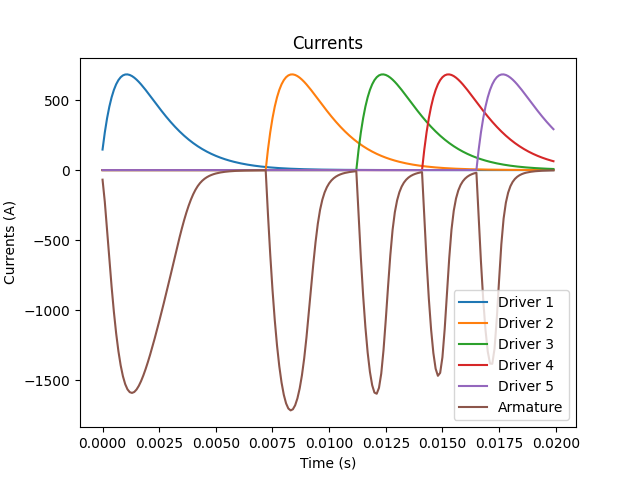
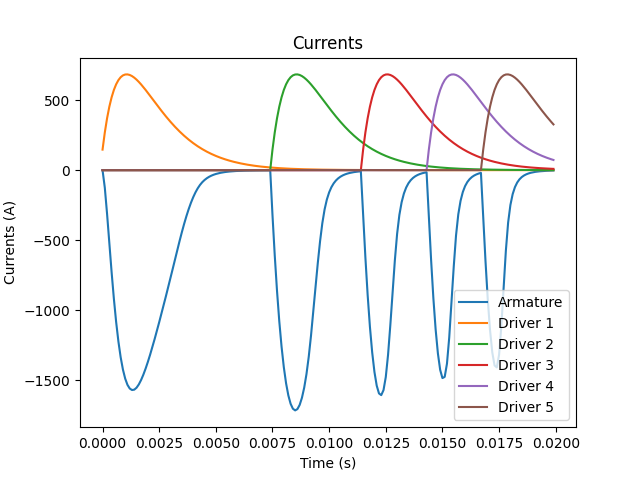
Efficiency calc fixes

diff --git a/Simulation/main.py b/Simulation/main.py
@@ -52,8 +52,9 @@ for step in np.arange(0, runtime, timestep):
     armature_currents.append(output[0].coil.current)
 
     armature_energy.append(armature.energy)
-    driver_energy.append(driver1.energy + driver2.energy + driver3.energy + driver4.energy + driver5.energy)
-    efficiency.append(armature.energy / (driver1.energy + driver2.energy + driver3.energy + driver4.energy + driver5.energy))
+    driver_energy_sum = driver1.energy + driver2.energy + driver3.energy + driver4.energy + driver5.energy
+    driver_energy.append(driver_energy_sum)
+    efficiency.append(armature.energy / driver_energy_sum + 0.001)
 
 
 time = np.arange(0, runtime, timestep)
@@ -74,9 +75,11 @@ p.set(xlabel='Time (s)', ylabel='Acceleration (m/s^2)', title='Projectile Accele
 figa.savefig("accel.png")
 
 figi, i = plt.subplots()
-i.plot(time, driver1.currents_list, time, driver2.currents_list, time, driver3.currents_list, time, driver4.currents_list, time, driver5.currents_list, time, armature_currents)
+i.plot(time, armature_currents)
+for stage in range(len(stage_list)):
+    i.plot(time, stage_list[stage].coil.currents_list)
 i.set(xlabel='Time (s)', ylabel='Currents (A)', title='Currents')
-i.legend(['Driver 1', 'Driver 2', 'Driver 3', 'Driver 4', 'Driver 5', 'Armature'])
+i.legend(['Armature', 'Driver 1', 'Driver 2', 'Driver 3', 'Driver 4', 'Driver 5'])
 figi.savefig("currents.png")
 
 fign, n = plt.subplots()
@@ -85,10 +88,12 @@ n.set(xlabel='Time (s)', ylabel='Efficiency', title='Coilgun Efficiency')
 fign.savefig("efficiency.png")
 
 fige, e = plt.subplots()
-e.plot(time, driver1.energy_list, time, driver2.energy_list, time, driver3.energy_list, time, driver4.energy_list, time, driver5.energy_list, time, armature.energy_list)
+e.plot(time, armature_energy)
+for stage in range(len(stage_list)):
+    e.plot(time, stage_list[stage].coil.energy_list)
 e.set(xlabel='Time (s)', ylabel='Energy (J)', title='Energy')
-e.legend(['Driver 1', 'Driver 2', 'Driver 3', 'Driver 4', 'Driver 5', 'Armature'])
-fige.savefig("Energy.png")
+e.legend(['Armature', 'Driver 1', 'Driver 2', 'Driver 3', 'Driver 4', 'Driver 5'])
+fige.savefig("energy.png")
 
 
 plt.show()

diff --git a/Simulation/run_step.py b/Simulation/run_step.py
@@ -17,13 +17,16 @@ def run_turn(timestep, stage_list, projectile):
         driver = stage.coil
 
         methods.increment_time(timestep, driver)
-        methods.increment_time(timestep, armature)
         methods.solve_currents(stage, projectile, driver.time_on, armature.time_on)
-        methods.solve_thermals(driver, timestep)
-        methods.solve_thermals(armature, timestep)
-        methods.solve_resistance(armature)
+        methods.solve_energy(driver, timestep)
 
         force += methods.magnetic_force(stage, projectile)
+
+    methods.increment_time(timestep, armature)
+    methods.solve_thermals(armature, timestep)
+    methods.solve_resistance(armature)
+    methods.solve_kinematics(projectile, force, timestep)
+
 
     for stage in stage_list:
         driver = stage.coil
@@ -32,6 +35,6 @@ def run_turn(timestep, stage_list, projectile):
 
     armature.energy_list.append(armature.energy)
 
-    methods.solve_kinematics(projectile, force, timestep)
+
 
     return projectile, armature

diff --git a/Simulation/methods.py b/Simulation/methods.py
@@ -34,10 +34,15 @@ def increment_time(timestep, coil):
     coil.time_on += timestep
 
 
-def solve_thermals(coil, timestep):
+def solve_energy(coil, timestep):
     coil_power = pow(coil.current, 2) * coil.resistance
     coil.temp = coil.temp + coil_power / coil.thermal_mass * timestep
     coil.energy = coil.energy + coil_power * timestep
+
+
+def solve_thermals(coil, timestep):
+    coil_power = pow(coil.current, 2) * coil.resistance
+    coil.temp = coil.temp + coil_power / coil.thermal_mass * timestep
 
 
 def solve_resistance(coil):
@@ -83,5 +88,10 @@ def solve_kinematics(projectile, F, timestep):
     armature.pos = projectile.pos
 
     projectile.kinetic_energy = pow(projectile.vel, 2) * 0.5 * projectile.mass
+    armature.energy = projectile.kinetic_energy
+    projectile.energy_list.append(projectile.kinetic_energy)
+    projectile.acceleration_list.append(projectile.accel)
+    projectile.velocity_list.append(projectile.vel)
+    projectile.position_list.append(projectile.pos)
 
 

diff --git a/Simulation/Old/old_main.py b/Simulation/Old/old_main.py
@@ -162,8 +162,8 @@ def run_turn(timestep, step, coil1, coil2, trigger_positions):
 copper = Material(8960, 385, 1.68 * pow(10, -8), 0.00382 * pow(10, -8))
 
 # Type, initial position, material, inner radius, length, layers, wire diameter, capacitance
-driver = Coil("Driver", copper, 0, 0.015, 0.05, 3, 0.001024, 0.0048)
-armature = Coil("Proj", copper, 0.01, 0.0125, 0.05, 1, 0.001024, 0)
+driver = Coil("Driver", copper, 0, 0.015, 0.05, 3, 0.00129, 0.0048)
+armature = Coil("Proj", copper, 0.01, 0.0125, 0.05, 1, 0.00129, 0)
 
 driver_positions = [0, 0.1, 0.2, 0.3, 0.4]
 trigger_list = [0, 0.1, 0.2, 0.3, 0.4, 100]
@@ -171,7 +171,7 @@ trigger_list = [0, 0.1, 0.2, 0.3, 0.4, 100]
 armature.mass = 0.1
 driver.initial_voltage = 450
 
-runtime = 0.05
+runtime = 0.02
 timestep = 0.0001
 
 positions = []

diff --git a/Simulation/classes.py b/Simulation/classes.py
@@ -37,6 +37,7 @@ class Coil:
         print("Wire Length", self.wire_length, "m")
         print("Wire Mass", self.wire_mass, "kg")
         print("Turns", self.turns)
+        print("mass", self.wire_mass, "kg")
 
 
 class Stage:
@@ -62,6 +63,11 @@ class Projectile:
         self.kinetic_energy = 0
         self.mass = mass
         self.stage = 0
+
+        self.position_list = []
+        self.velocity_list = []
+        self.acceleration_list = []
+        self.energy_list = []
 
 
 class Material:
